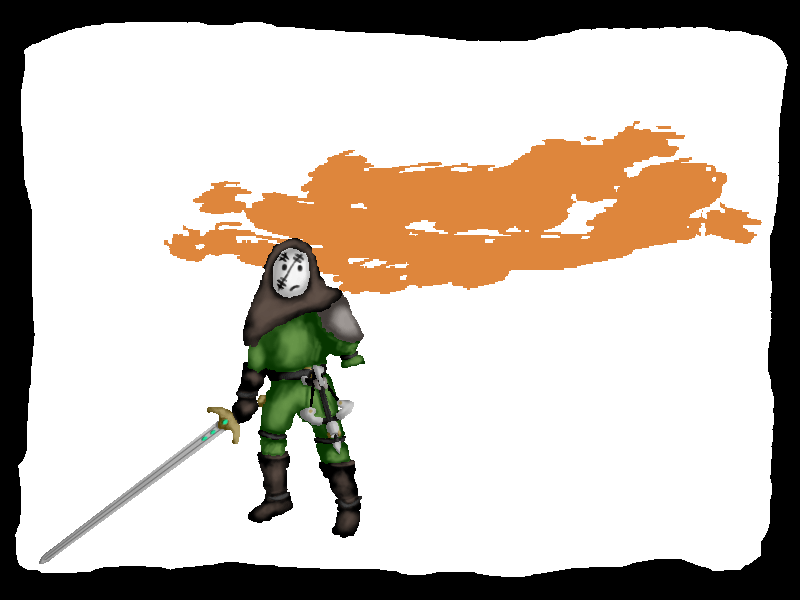
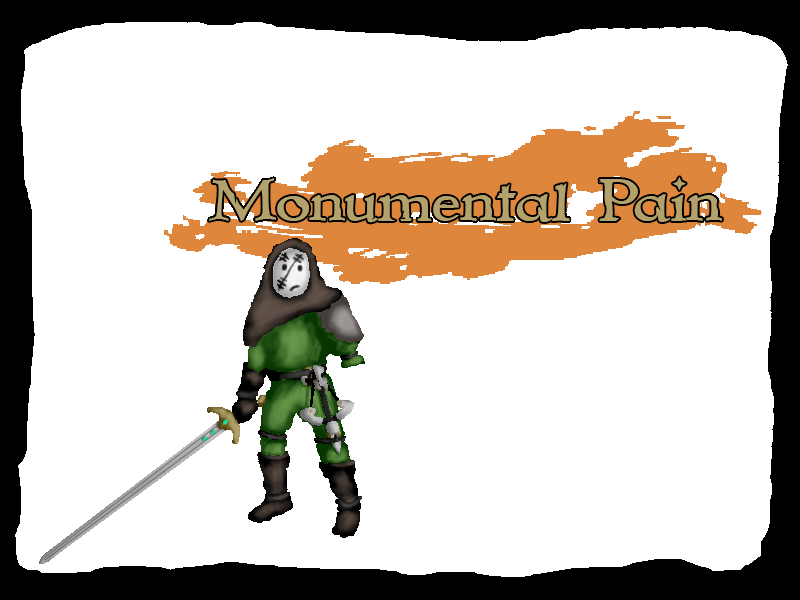
replaced title and added wip forest background

Changed region(s): [[0.1875, 0.18, 0.9688, 0.51]]

diff --git a/js/Title.js b/js/Title.js
@@ -14,8 +14,8 @@ Title.prototype = {
       game.add.image(0,0, 'kevn-bg');
       game.add.image(0,0, 'titleart');
 
-      let text = game.add.text(game.world.centerX, 80, "Monumental Pain", {font: 'Courier', fontSize: '55px', align: 'center'});
-      text.anchor.set(0.3);
+      //let text = game.add.text(game.world.centerX, 80, "Monumental Pain", {font: 'Courier', fontSize: '55px', align: 'center'});
+      //text.anchor.set(0.3);
 
       // make the buttons appear and asign them variables
       playButton = game.add.text(game.world.centerX, game.world.centerY - 64, " ~Play~ ", BUTTON_TEXT_STYLE);
@@ -25,8 +25,8 @@ Title.prototype = {
 
 
       // Double check that text appears in the right area of the camera
-      text.fixedToCamera = true;
-      text.cameraOffset.setTo(game.camera.width/2, 200);
+      //text.fixedToCamera = true;
+      //text.cameraOffset.setTo(game.camera.width/2, 200);
       playButton.fixedToCamera = true;
       playButton.cameraOffset.setTo((game.camera.width/2)+170, game.camera.height/2 );
       helpButton.fixedToCamera = true;
